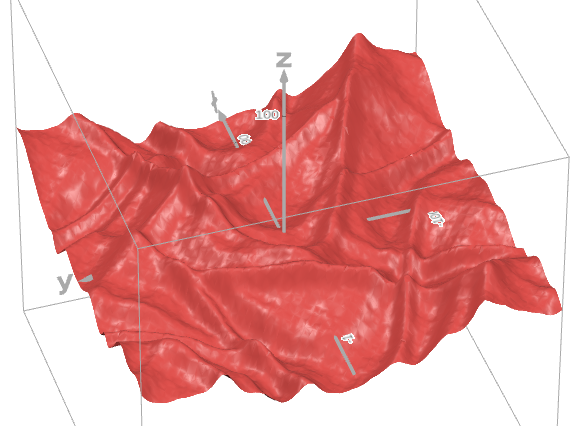
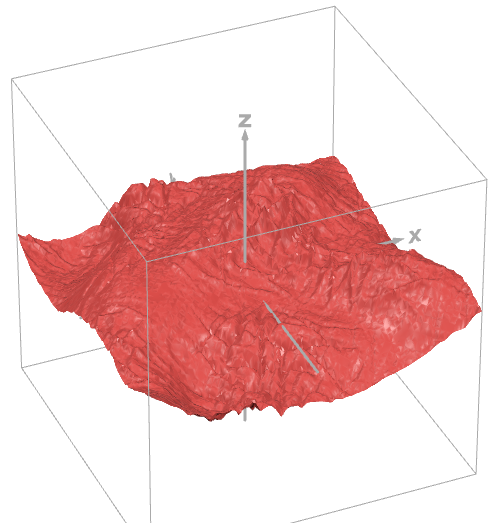
updated formula

diff --git a/README.md b/README.md
@@ -75,15 +75,17 @@ The formula I eventually derived for the terrain generation:
 ```math
 \begin{align*}
 &\quad\text{Given an } x\in\mathbb{R} \text{ and } y\in\mathbb{R}, \\
-&\quad\text{Let } P, H, \text{ and } N \text{ denote sets all of equal size to describe} \\
+&\quad\text{Let } P, H, N, \text{ and } X \text{ denote subsets of } \mathbb{Z} \text{ all of equal size to describe} \\
 &\quad\text{the generation.}\\
-&z=\hspace{-0.5em}\sum^{|P|}_{n=1}H_n\cdot\Bigg(\sin\Bigg(\frac{x+H_n\cdot\cos\big(\frac{y}{P_n}\big)}{P_n}\Bigg)^{N_n}+\cos\Bigg(\frac{y-H_n\cdot\cos\big(\frac{x}{P_n}\big)}{P_n}\Bigg)^{N_n}\Bigg)
+&K(x,y,n)=\sin\Bigg(\frac{x+H_n\cdot\cos\big(\frac{y}{P_n}\big)}{P_n}\Bigg)^{N_n}+\cos\Bigg(\frac{y-H_n\cdot\cos\big(\frac{x}{P_n}\big)}{P_n}\Bigg)^{N_n} \\
+&S(x,y,n)=\sin\Bigg(\frac{x+X_n\cdot\cos\big(\frac{y}{X_n}\big)}{X_n}\Bigg)+\cos\Bigg(\frac{y-X_n\cdot\cos\big(\frac{x}{X_n}\big)}{X_n}\Bigg) \\
+&z(x,y)=\sum^{|P|}_{n=1}H_n\cdot K(x,y,n)\cdot S(x,y,n)
 \end{align*}
 ```
-<br>
+P is a set of period slopes, H is a set of height multipliers for each slope, N is a set of powers for each slope, which can help generate more realistic looking mountains, X is a set of smoothing periods.
+
 All of the texture assets were obtained from free external sources.
-<br>
-<br>
+<br><br>
 
 <image src="media/graph.webp" width="200" alt="graph.webp"></image>
 <image src="media/terrain.webp" width="200"></image> \
